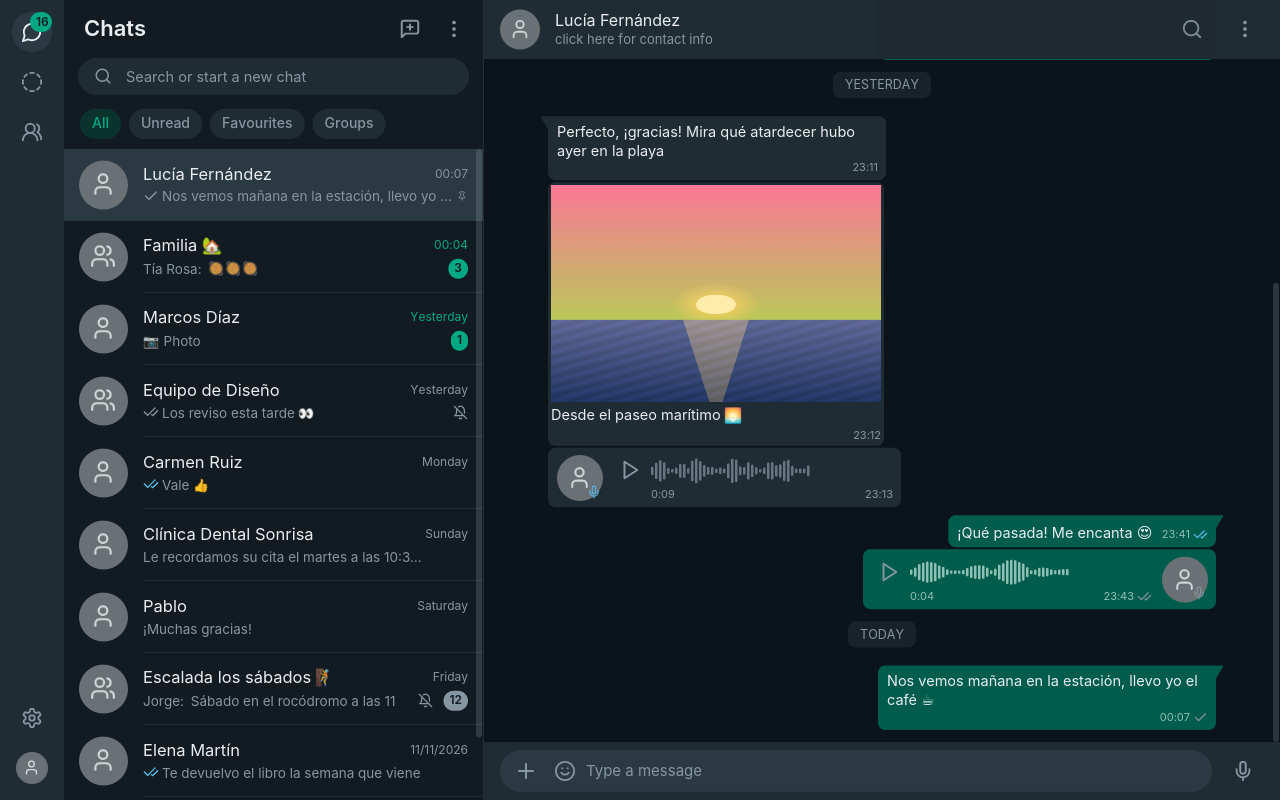
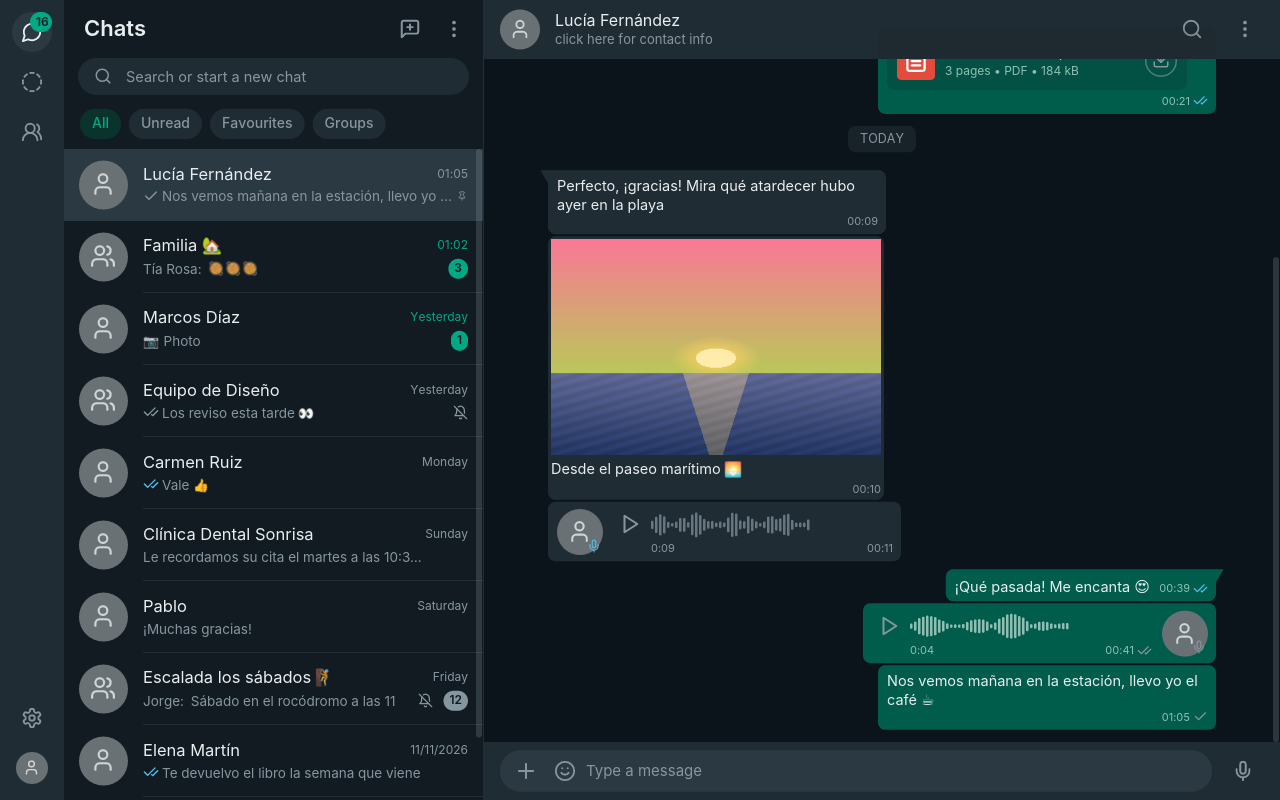
docs: document session safety, media limits and review lessons
Claude-Session: https://claude.ai/code/session_011GZUAJAc8TohrBZJFGozGm

diff --git a/docs/protocol.md b/docs/protocol.md
@@ -44,20 +44,27 @@ conversion lives in pure functions in `src/net/convert.rs`.
 | `PairingQrCodesExhausted` | `QrExhausted` | "Click to reload QR code" (restarts the client) |
 | `PairSuccess` / `PairError` | same | logged in / error under the QR |
 | `Connected` | `Connection(Connected)` + `Connected { jid }` | banner cleared |
-| `Disconnected`, `ConnectFailure`, `StreamError` | `Connection(Reconnecting { attempt })` | banner; the library reconnects with backoff |
-| `LoggedOut`, `StreamReplaced` | `LoggedOut { reason }` | session store and key deleted, cache wiped, back to QR |
+| `Disconnected`, `StreamError`, `ConnectFailure` 500/503 | `Connection(Reconnecting { attempt })` | banner; the library reconnects with backoff |
+| `ConnectFailure` other 4xx | `Connection(Offline { reason })` | library stopped; app retries with its own backoff (1 s → 60 s + jitter) and shows "Retry now" |
+| `ConnectFailure` 401/403/406, `LoggedOut` | `LoggedOut { reason }` | session store and key deleted, cache wiped, back to QR (the only automatic wipe) |
+| `StreamReplaced` | `Connection(Replaced)` | **non-destructive**: library stopped, banner "WhatsApp is open on another computer" with "Use here" |
 | `TemporaryBan`, `ClientOutdated` | `Fatal` | shown on the login screen |
-| `Messages` | `Messages { live }` | stored, reducers, notifications (live only), read receipts |
+| `Messages` | `LidMappings` + `Messages { origin: Live \| Offline }` | stored first; ids the store did not have count as unread (live and offline-drained alike); one notification per live message, one summary per offline drain |
 | `Receipt` | `Receipt` or `ChatRead` (read-self) | tick state machine |
-| `HistorySync` | `History` + `Messages { live: false }` | chats, names, cached messages |
+| `HistorySync` | `LidMappings` + `History` / `Messages { origin: History }` in chunks of 500 | chats, names, cached messages; never counted as unread |
 | `PushNameUpdate`, `ContactUpdate` | `ContactName` | display names |
 | `MarkChatAsReadUpdate` | `ChatRead` | badge cleared |
 
 Message bodies handled: `conversation`, `extendedTextMessage`,
 `imageMessage`, `documentMessage` (also wrapped in
 `documentWithCaptionMessage`), `audioMessage` (PTT and audio files),
-`protocolMessage{REVOKE}` (shown as "This message was deleted").
-Ephemeral / view-once wrappers are unwrapped. Video, stickers, locations,
+`protocolMessage{REVOKE}` (shown as "This message was deleted", applied only
+when the revoker is the original sender: our own devices for our messages,
+the same participant otherwise; group-admin revokes are ignored because they
+cannot be verified locally). Ephemeral wrappers are unwrapped; disappearing
+messages carry `expires_at` and are pruned from the cache when it passes.
+**View-once** messages are rendered as "View once message: open it on your
+phone": their media reference is never exposed, downloaded or stored. Video, stickers, locations,
 contacts and polls show an "unsupported" placeholder; reactions and key
 distribution messages are not bubbles.
 
@@ -80,10 +87,31 @@ because KDE renders a subset of HTML in them.
 Images and voice notes are kept in memory only (byte-bounded LRUs: 48 MB
 images, 16 MB decoded audio) and re-downloaded after a restart.
 
-If the keyring has no key but a session file exists (keyring wiped), the
-file is undecryptable and is deleted; the user pairs again. If no Secret
-Service is reachable the login screen shows an explicit error instead of
-falling back to a file.
+The session store is **never deleted automatically** except on a real
+logout (user action or server-side unlink). Only `SQLITE_NOTADB` (wrong key)
+or a missing/malformed keyring entry next to an existing session counts as
+"unreadable": the login screen then explains it and offers "Discard saved
+session and link again"; no new key is minted over an existing session. Any
+other error (I/O, permissions, busy database, migration) is shown as an
+error with "Try again" and nothing is touched. If no Secret Service is
+reachable the login screen explains how to enable KWallet / GNOME Keyring
+and "Try again" retries without restarting; there is no file fallback (an
+opt-in passphrase-encrypted fallback is future work).
+
+A single-instance lock (`ferrochat.lock` in the data directory, OS file
+lock) prevents two Ferrochat processes from sharing one session store.
+
+The SQLCipher key only lives in zeroized buffers (`secrecy`, `Zeroizing`).
+Media limits: downloads ≤ 100 MB, at most 4 concurrent; images are
+header-probed and refused above 16 Mpx when auto-downloaded and 40 Mpx when
+opened; voice notes refuse to decode beyond their declared duration
+(+50 % + 10 s) or 10 minutes, and beyond 90 000 packets (decompression
+bombs). Recording stops at 30 minutes. Documents with executable or active
+content types (`.exe`, `.bat`, `.ps1`, `.lnk`, `.jar`, `.msi`, `.desktop`,
+`.sh`, `.AppImage`, `.html`, `.svg`, …) are saved but never launched; file
+names are sanitised (separators, control characters, trailing dots/spaces,
+reserved Windows names). Files are opened without a shell (`open` crate:
+`xdg-open` / `ShellExecuteW`).
 
 `--mock` mode uses an in-memory secret store and an in-memory cache and
 writes nothing except an optional screenshot.
@@ -128,9 +156,13 @@ draws the waveform bars as played / unplayed.
 
 ## 7. Known protocol gaps
 
-* LID vs. phone-number addressing: chats are keyed by whatever JID the
-  server uses (`…@lid` or `…@s.whatsapp.net`); the same contact can appear
-  twice if the server switches addressing mid-history.
+* LID vs. phone-number addressing: LID ↔ PN pairs are learned from
+  envelopes (`sender_alt` / `recipient_alt`), history sync
+  (`phoneNumberToLidMappings`, conversation `pnJid`/`lidJid`) and persisted
+  (`lid_map` table); messages, receipts, history chats and names are
+  normalised to the PN JID. A LID seen before any mapping is learned still
+  forms its own chat until the pair arrives (existing rows are not merged
+  retroactively).
 * Group "read" ticks turn blue on the first participant's read receipt
   (WhatsApp waits for all participants).
 * No profile pictures, typing indicators, replies, reactions, edits or

diff --git a/LESSONS.md b/LESSONS.md
@@ -70,3 +70,17 @@ next change.
 * A shared build host fills its disk quickly: debug test binaries with full
   debuginfo reached 16 GB. Remove `target/debug/incremental` when short on
   space.
+
+## Review round 1
+
+* Never delete a session automatically. Only a real logout wipes; a wrong
+  key is `SQLITE_NOTADB` and still needs the user's confirmation; I/O and
+  migration errors are retryable errors. `StreamReplaced` is not a logout.
+* Count unread by "the store did not have this id", not by delivery path:
+  the offline drain after reconnect is exactly when users expect badges.
+* Compressed media needs output caps: a few hundred kB of Opus packets can
+  decode to gigabytes. Cap by declared duration and packet count.
+* `pkg-config` will not link system libraries statically; build libopus from
+  the bundled source (`LIBOPUS_NO_PKG=1`) to get a static link.
+* Version sync must be a real merge of main into development (simulated in
+  `.github/scripts/version.sh`), or the second release conflicts.

diff --git a/README.md b/README.md
@@ -40,12 +40,16 @@ Rust stable (edition 2024, ≥ 1.94) and, on Debian/Ubuntu:
 
 ```sh
 sudo apt-get install -y pkg-config cmake libdbus-1-dev libasound2-dev \
-  libxkbcommon-dev libwayland-dev libssl-dev libopus-dev libfontconfig1-dev
+  libxkbcommon-dev libwayland-dev libssl-dev libfontconfig1-dev
 cargo build --release
 ```
 
-`libssl-dev` is needed for SQLCipher (the encrypted session store),
-`libopus-dev` for voice notes. Linux (KDE Plasma / Wayland) is the primary
+`libssl-dev` is needed for SQLCipher (the encrypted session store);
+`cmake` builds the bundled libopus, which is linked statically
+(`.cargo/config.toml` sets `LIBOPUS_NO_PKG=1`), so the binary needs no
+libopus package at runtime. Runtime packages: OpenSSL's `libcrypto`, ALSA /
+PipeWire, D-Bus, a Secret Service (KWallet or GNOME Keyring) and
+`xdg-open`. Linux (KDE Plasma / Wayland) is the primary
 target; Windows and macOS should build but are not tested.
 
 ## Run

diff --git a/CLAUDE.md b/CLAUDE.md
@@ -38,7 +38,9 @@ entry id: `dev.ferro.ferrochat`.
 ## Gotchas
 - Only ONE `libsqlite3-sys` may link: it is pinned to 0.37 with `bundled-sqlcipher`;
   `rusqlite` must stay on 0.39 and `whatsapp-rust` default features stay OFF.
-- SQLCipher needs OpenSSL (`libssl-dev`); voice notes need `libopus-dev` + `cmake`.
+- SQLCipher needs OpenSSL (`libssl-dev`); libopus is built from bundled source and
+  linked statically (`.cargo/config.toml`, needs `cmake`).
+- Never delete the session store except on a real logout; see `docs/protocol.md` §3.
 - `scrollable().anchor_bottom()` reverses offsets: "bottom" is `RelativeOffset::START`.
 - iced style fns returning `impl Fn` need `+ use<>` (edition 2024 captures).
 - Keep iced default features on (x11/wayland backends).
